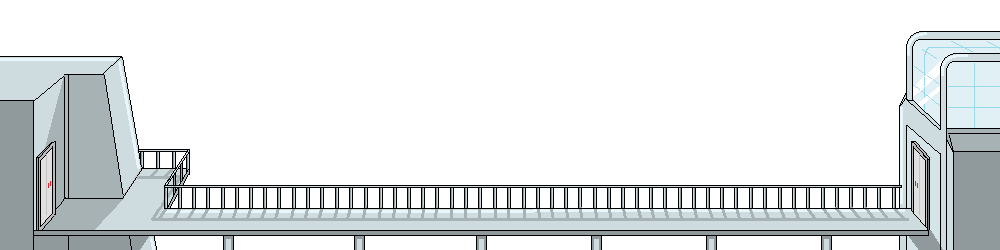
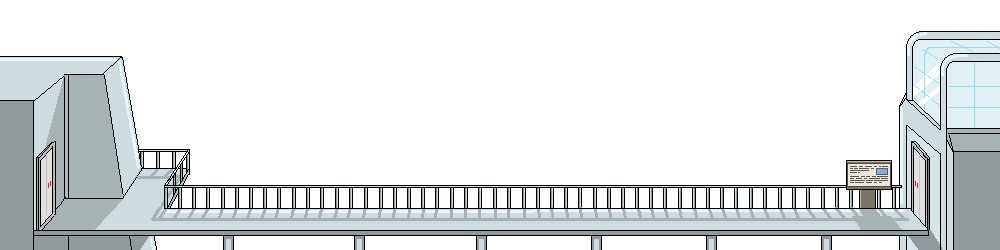
various

Changed region(s): [[0.837, 0.616, 0.899, 0.924]]

diff --git a/src/gamestates/Flying.java b/src/gamestates/Flying.java
@@ -34,7 +34,7 @@ import static utils.Constants.Flying.TypeConstants.BOMB;
 import static utils.Constants.Audio;
 
 public class Flying extends State implements Statemethods {
-    
+
     public AudioPlayer audioPlayer;
     private PauseFlying pauseOverlay;
     private LevelFinishedOverlay levelFinishedOverlay;
@@ -78,7 +78,7 @@ public class Flying extends State implements Statemethods {
         initClasses(game.getOptionsMenu());
         loadEventReactions();
         projectileHandler.setBombs(game.getExploring().getBombs());   // Comment out to start with more bombs
-        loadLevel(0);     // Only use if not entering from Exploring
+        loadLevel(1);     // Only use if not entering from Exploring
     }
 
     public void loadLevel(int level) {
@@ -92,7 +92,7 @@ public class Flying extends State implements Statemethods {
         loadPickupItems(level);
         loadCutscenes(level);  
         player.setKilledEnemies(0);
-        //startAt(-2500);     // For testing purposes
+        startAt(-24500);     // For testing purposes
     }
 
     private void initClasses(OptionsMenu optionsMenu) {
@@ -358,7 +358,7 @@ public class Flying extends State implements Statemethods {
             Gamestate.state = Gamestate.EXPLORING;
         }
         else {
-            Gamestate.state = Gamestate.LEVEL_SELECT;
+            Gamestate.state = Gamestate.EXPLORING;  // TODO - enter levelSelect instead
         }
     }
 
@@ -375,7 +375,8 @@ public class Flying extends State implements Statemethods {
     }
 
     /** Resets all non-level-specific values in flying-mode.
-     * (Level-specific values are set in the 'loadLevel'-method) */
+     * Should be called both when loading a new level, and when resetting the current level.
+     * (Level-specific values are set in the 'loadLevel'-method and 'resetLevel'-method) */
     public void resetFlying() {
         pause = false;
         gamePlayActive = true;
@@ -384,7 +385,6 @@ public class Flying extends State implements Statemethods {
         fgCurSpeed = fgNormalSpeed;
         bgCurSpeed = bgNormalSpeed;
         player.reset();
-        // TODO - set killedEnemies in enemeyManager and clear explosions.
         gameoverOverlay.reset();
         projectileHandler.reset();
         cutsceneManager.reset();
@@ -414,7 +414,7 @@ public class Flying extends State implements Statemethods {
         for (AutomaticTrigger trigger : automaticTriggers) {
             trigger.resetTo(resetYPos);
         }
-        enemyManager.resetTo(resetYPos);
+        enemyManager.resetEnemiesTo(resetYPos);
         audioPlayer.startSongLoop(song);
         audioPlayer.startAmbienceLoop(Audio.AMBIENCE_ROCKET_ENGINE);
     }

diff --git a/src/ui/DialogueBox.java b/src/ui/DialogueBox.java
@@ -56,7 +56,7 @@ public class DialogueBox {
         portraits = new BufferedImage[3][8];
         portraits[0] = getPortraits(LoadSave.MAX_PORTRAITS, 11);
         portraits[1] = getPortraits(LoadSave.OLIVER_PORTRAITS, 9);
-        portraits[2] = getPortraits(LoadSave.NPC_PORTRAITS1, 6);
+        portraits[2] = getPortraits(LoadSave.NPC_PORTRAITS1, 11);
     }
 
     private BufferedImage[] getPortraits(String portraitName, int length) {
@@ -127,6 +127,7 @@ public class DialogueBox {
             case "Nina" -> Color.PINK;
             case "Shady pilot" -> Color.ORANGE;
             case "Speaker" -> Color.RED;
+            case "Sign" -> Color.WHITE;
             default -> throw new IllegalArgumentException(
                 "No nameColor available for '" + name + "'");
         };
@@ -142,6 +143,7 @@ public class DialogueBox {
             case "Nina" -> Audio.VOICECLIP_NINA;
             case "Shady pilot" -> Audio.VOICECLIP_SHADYPILOT;
             case "Speaker" -> Audio.VOICECLIP_SPEAKER;
+            case "Sign" -> Audio.VOICECLIP_SIGN;
             default -> 0;
             };
 

diff --git a/src/ui/LevelFinishedOverlay.java b/src/ui/LevelFinishedOverlay.java
@@ -3,7 +3,6 @@ package ui;
 import java.awt.Color;
 import java.awt.Font;
 import java.awt.Graphics;
-import java.awt.event.KeyEvent;
 import java.awt.image.BufferedImage;
 import java.util.ArrayList;
 
@@ -13,7 +12,7 @@ import main.Game;
 import utils.LoadSave;
 import utils.Constants.Audio;
 
-import static utils.Constants.Flying.TypeConstants.TARGET;
+import static utils.Constants.Flying.TypeConstants.*;
 import static utils.Constants.UI.CURSOR_HEIGHT;
 import static utils.Constants.UI.CURSOR_WIDTH;
 
@@ -77,6 +76,10 @@ public class LevelFinishedOverlay implements Statemethods {
         for (Integer i : enemiesKilled) {
             totalEarned += switch(i) {
                 case TARGET -> 0;
+                case DRONE -> 20;
+                case SMALL_SHIP -> 10;
+                case OCTADRONE -> 40;
+                case BLASTERDRONE -> 40;
                 default -> throw new IllegalArgumentException(
                     "'" + i + "' is not a valid argument");
             };

diff --git a/src/audio/AudioPlayer.java b/src/audio/AudioPlayer.java
@@ -53,7 +53,8 @@ public class AudioPlayer {
         "VoiceClip - Charlotte.wav",
         "VoiceClip - Nina.wav",
         "VoiceClip - ShadyPilot.wav",
-        "VoiceClip - Speaker.wav"
+        "VoiceClip - Speaker.wav",
+        "VoiceClip - Sign.wav"
     };
     private File[] SFX;
     private File[] voiceClips;
@@ -272,6 +273,7 @@ public class AudioPlayer {
         this.setSfxVolume = volume;
         this.curSfxVolume = volume;
         updateSfxVolume();
+        
         this.setAmbienceVolume = volume;
         this.curAmbienceVolume = volume;
         updateAmbienceVolume();

diff --git a/src/gamestates/MainMenu.java b/src/gamestates/MainMenu.java
@@ -129,8 +129,8 @@ public class MainMenu extends State implements Statemethods {
         this.alphaFade += 5;
         if (alphaFade > 255) {
             alphaFade = 255;
-            this.game.getFlying().update(); 
-            Gamestate.state = Gamestate.FLYING;
+            this.game.getExploring().update(); 
+            Gamestate.state = Gamestate.EXPLORING;
         }
     }
 

diff --git a/src/utils/Constants.java b/src/utils/Constants.java
@@ -189,6 +189,7 @@ public class Constants {
         public static final int VOICECLIP_NINA = 4;
         public static final int VOICECLIP_SHADYPILOT = 5;
         public static final int VOICECLIP_SPEAKER = 6;
+        public static final int VOICECLIP_SIGN = 7;
 
         // Songs (don't change these indexes!)
         public static final int SONG_TUTORIAL = 0;

diff --git a/src/utils/HelpMethods.java b/src/utils/HelpMethods.java
@@ -396,6 +396,7 @@ public class HelpMethods {
             case "Pilot #1" -> 2;
             case "Pilot #2" -> 2;
             case "Pilot #3" -> 2;
+            case "Sign" -> 2;
             default -> throw new IllegalArgumentException(
                     "No characterIndex available for '" + name + "'");
         };

diff --git a/src/entities/flying/EnemyManager.java b/src/entities/flying/EnemyManager.java
@@ -204,9 +204,11 @@ public class EnemyManager {
         }
     }
 
-    public void resetTo(float y) {
+    public void resetEnemiesTo(float y) {
         for (Enemy enemy : allEnemies) {
             enemy.resetTo(y);
         }
+        this.killedEnemies.clear();
+        this.explosions.clear();
     }
 }

diff --git a/src/misc/Area.java b/src/misc/Area.java
@@ -273,11 +273,6 @@ public class Area {
         }
     }
 
-    public void keyPressed(KeyEvent e) {}
-
-
-    public void keyReleased(KeyEvent e) {}
-
     private void handleKeyBoardInputs() {
         if (!cutsceneManager.isActive() && game.interactIsPressed) {
             game.interactIsPressed = false;

diff --git a/src/cutscenes/CutsceneManager.java b/src/cutscenes/CutsceneManager.java
@@ -17,7 +17,6 @@ import misc.Area;
 import ui.NumberDisplay;
 import ui.TextboxManager;
 import utils.LoadSave;
-import utils.Constants.Audio;
 
 import static utils.Constants.Exploring.Cutscenes.*;
 

diff --git a/src/ui/TextboxManager.java b/src/ui/TextboxManager.java
@@ -2,7 +2,6 @@ package ui;
 
 import java.awt.Graphics;
 
-import audio.AudioPlayer;
 import main.Game;
 
 public class TextboxManager {
